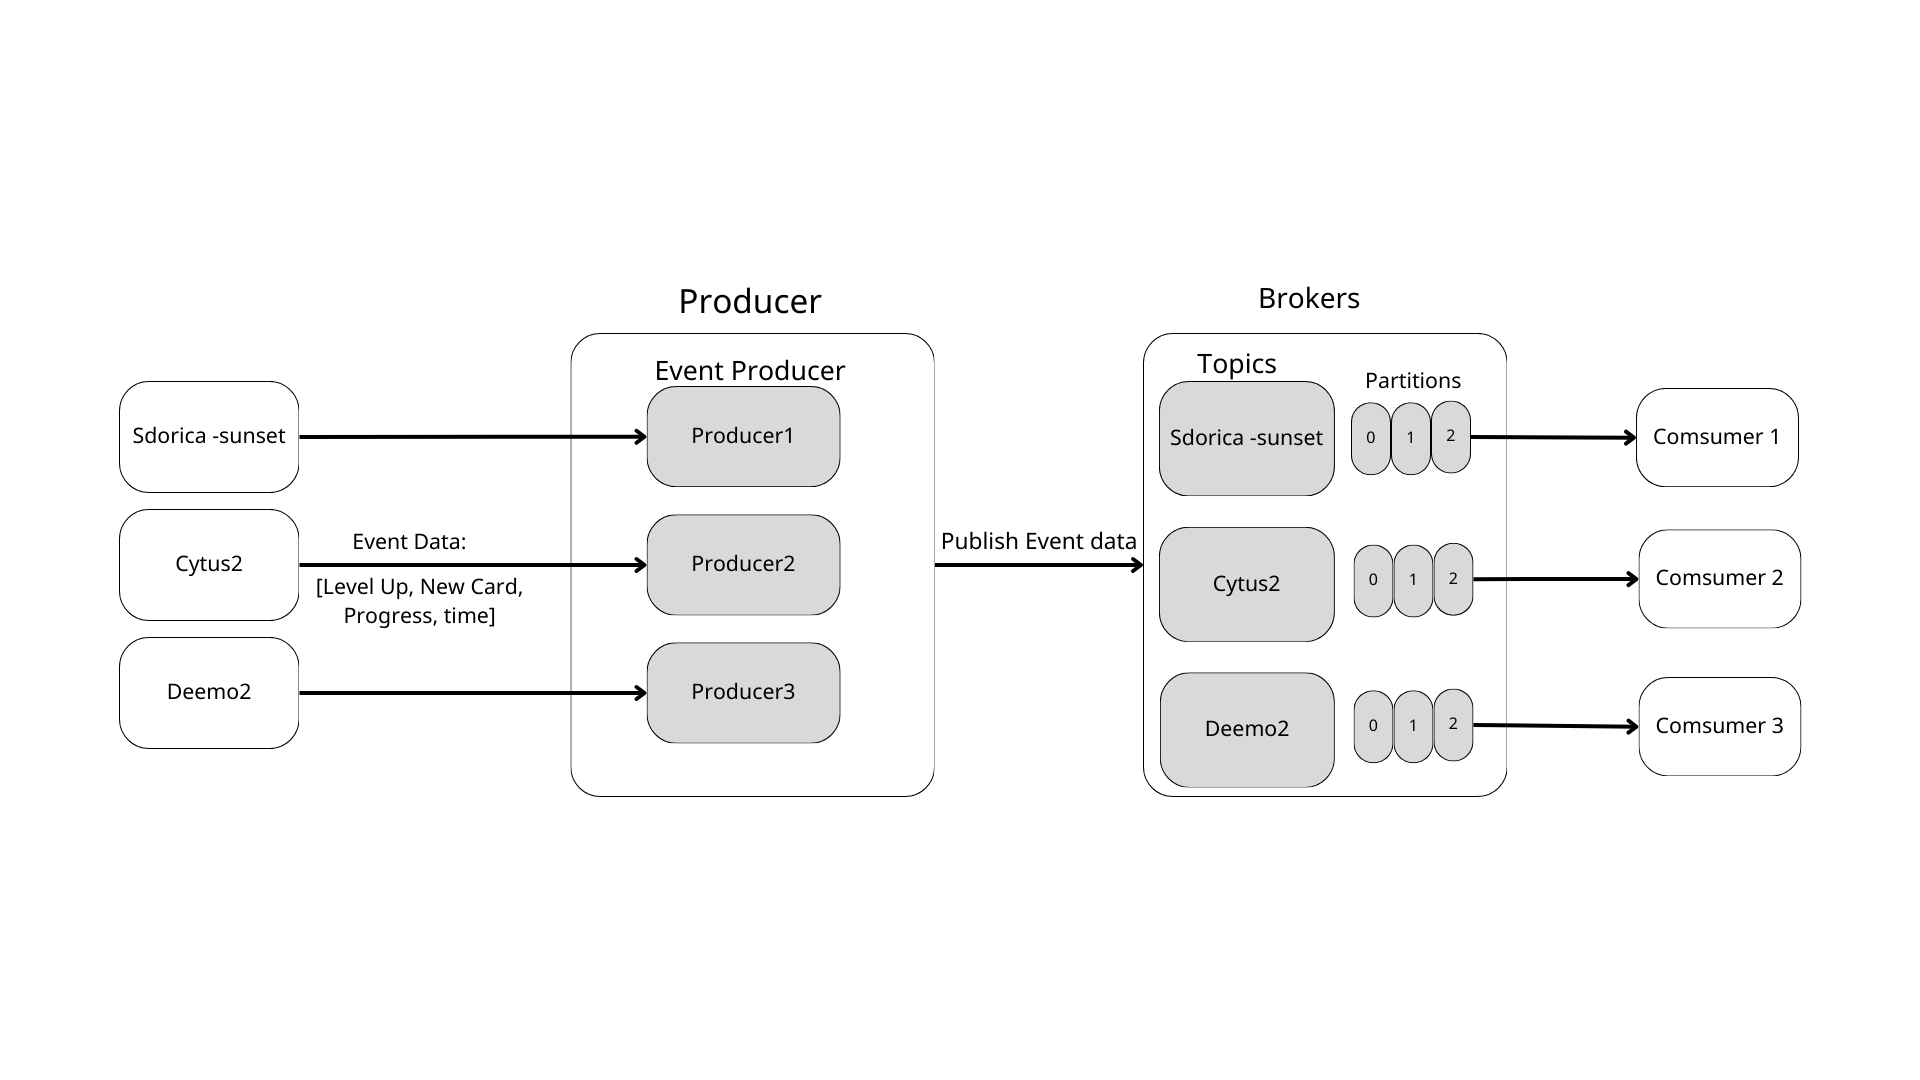
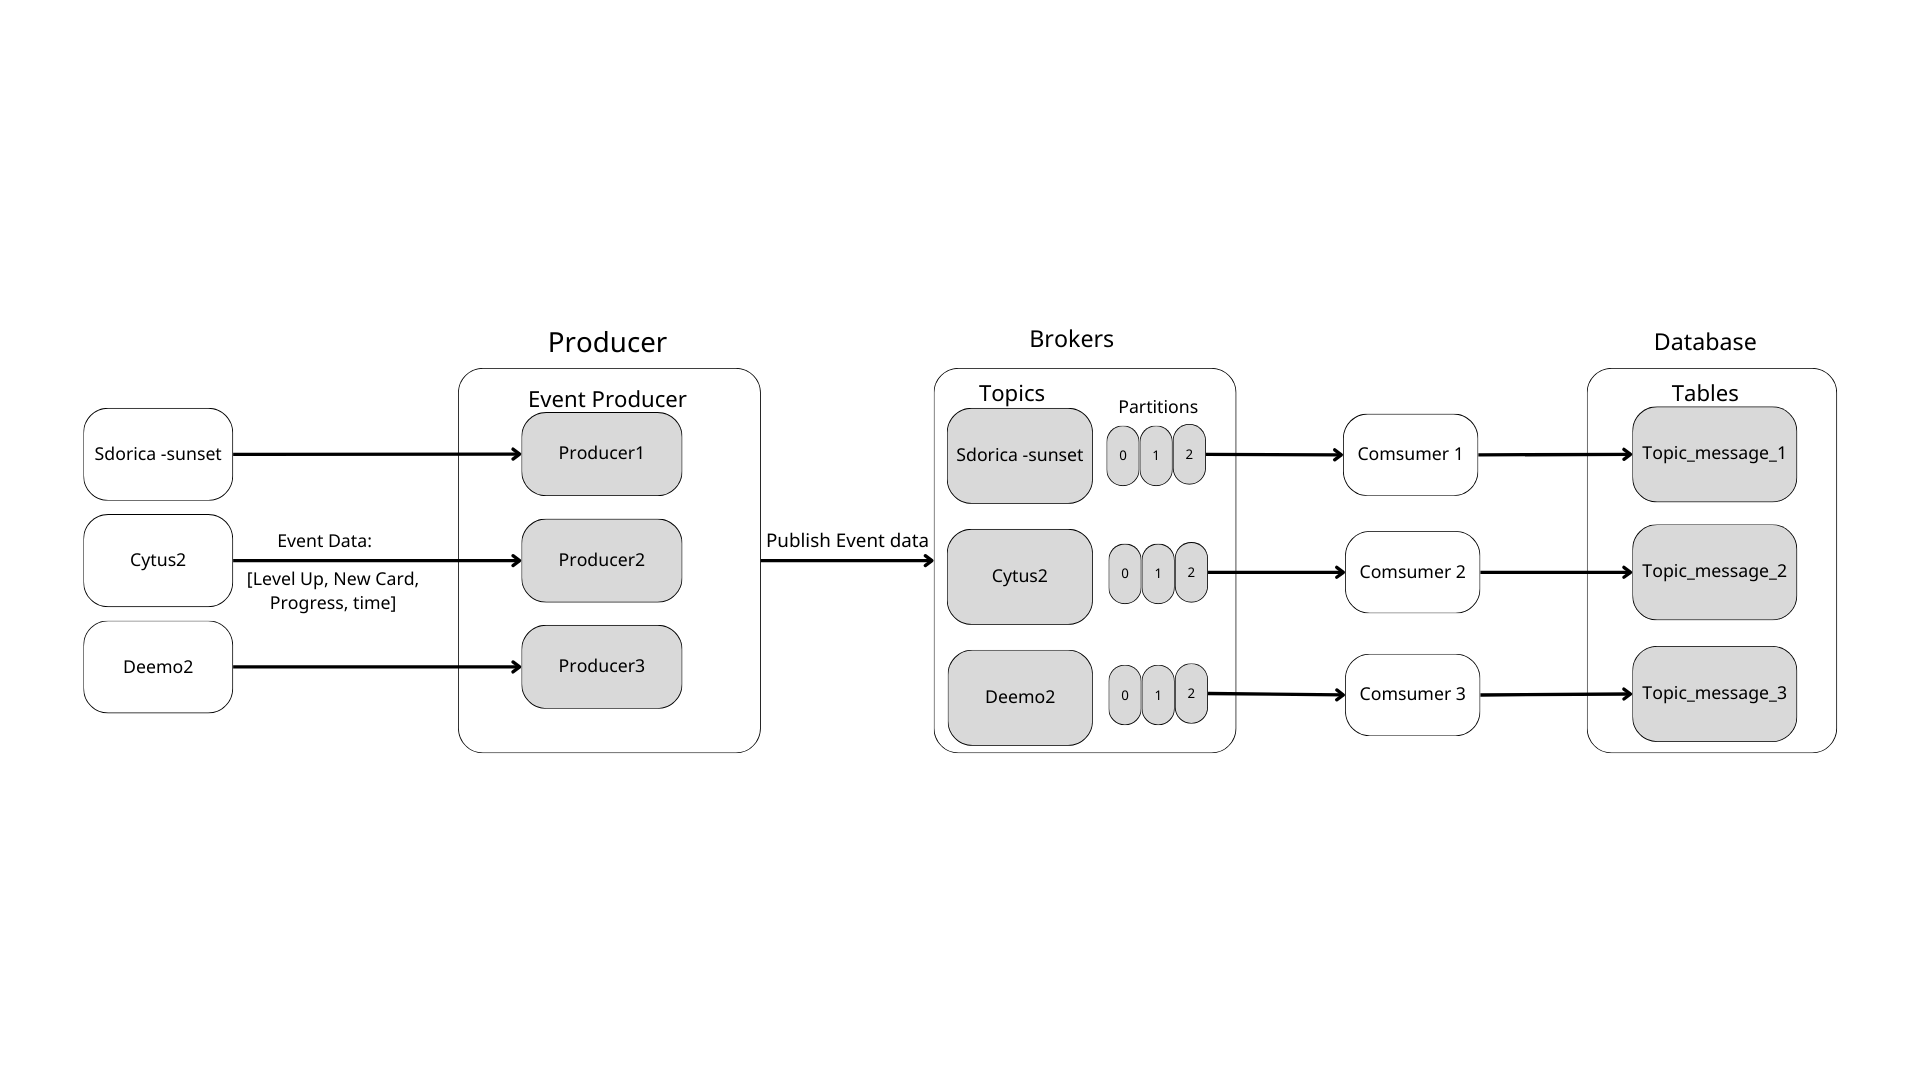
Update README.md

diff --git a/README.md b/README.md
@@ -24,6 +24,17 @@ kafka-project/
 |-- requirements.txt
 `-- README.md
 ```
+### MySQL
+- Create `.env` file in root path
+   ```
+   MYSQL_USER = USER
+   MYSQL_PASSWORD = PASSWORD
+   MYSQL_DATABASE = DB
+   MYSQL_ROOT_PASSWORD = ROOT PASSWORD
+   ```
+
+
+
 
 ### Getting Start
 1. Create kafka broker `kafka/docker-compose.yml`
@@ -38,11 +49,15 @@ kafka-project/
    ```
    python3 kafka_topics.py
    ```
-4. Run producers `src/producers/.`
+4. Create MySQL Tables
+   ```
+   python3 exec_sql.py
+   ```
+5. Run producers `src/producers/.`
    ```
    python3 producer_1.py
    ```
-5. Run Consumers `src/consumers/.`
+6. Run Consumers `src/consumers/.`
    ```
    python3 consumer_1.py
    ```
